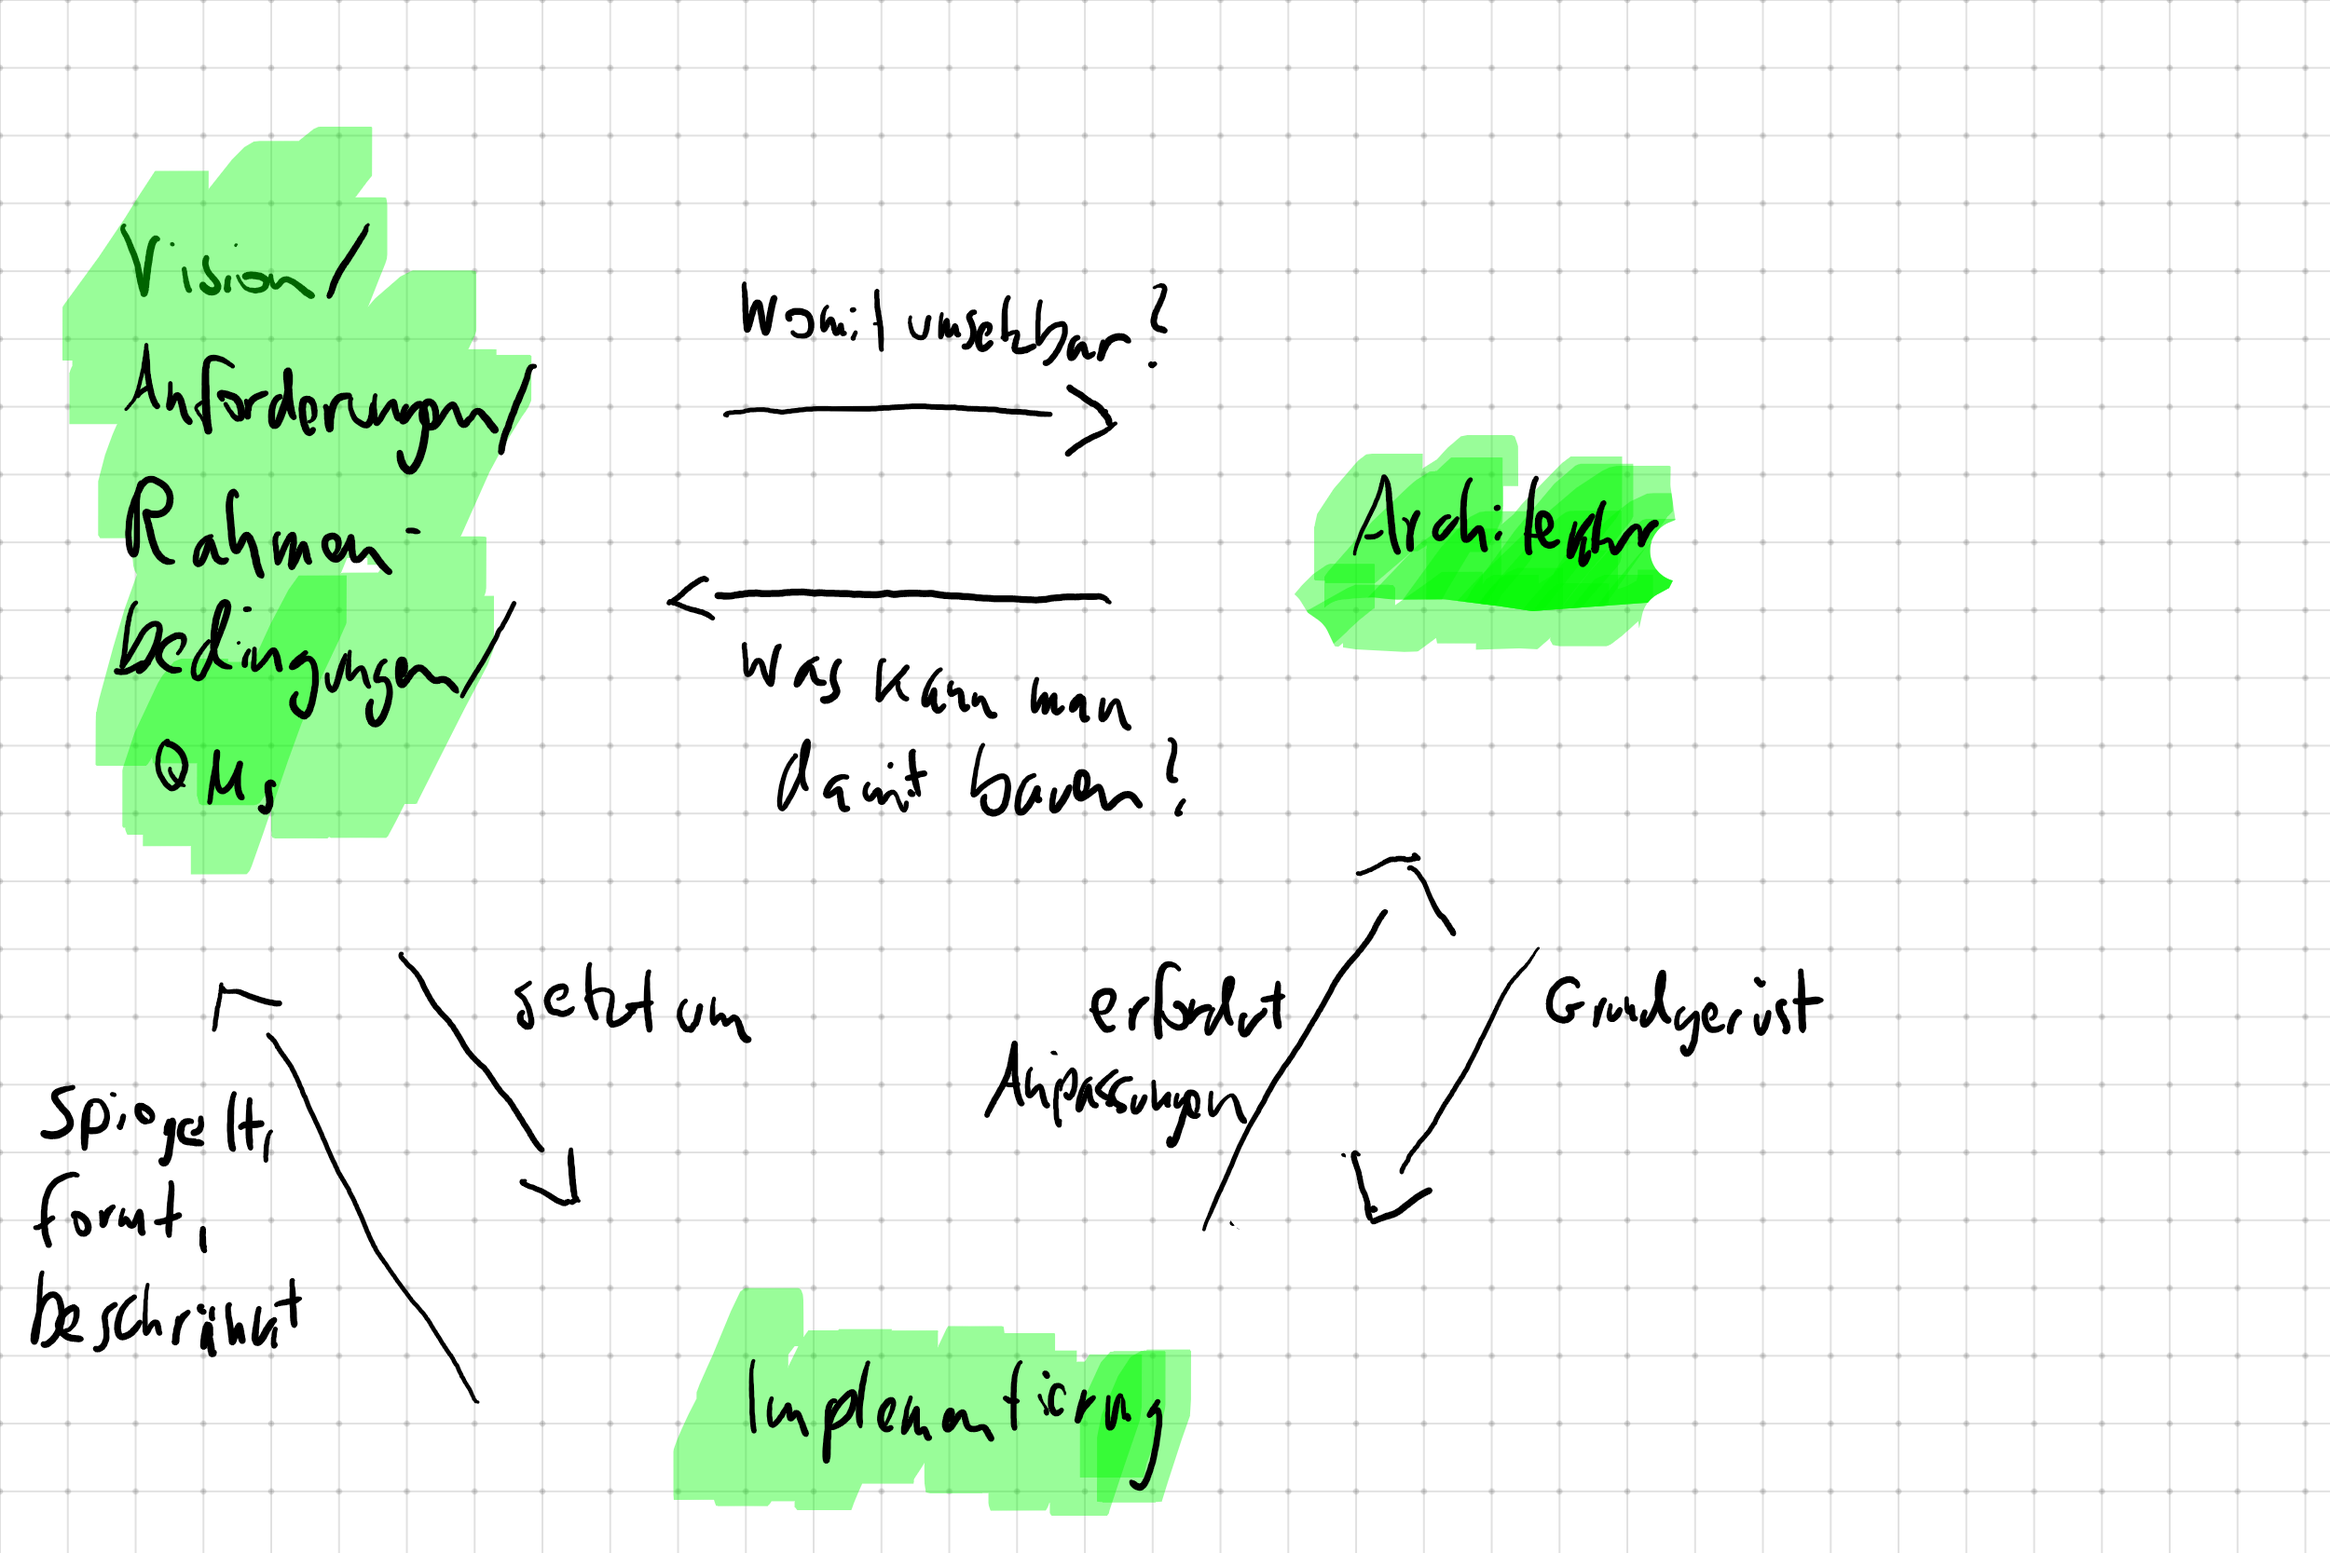
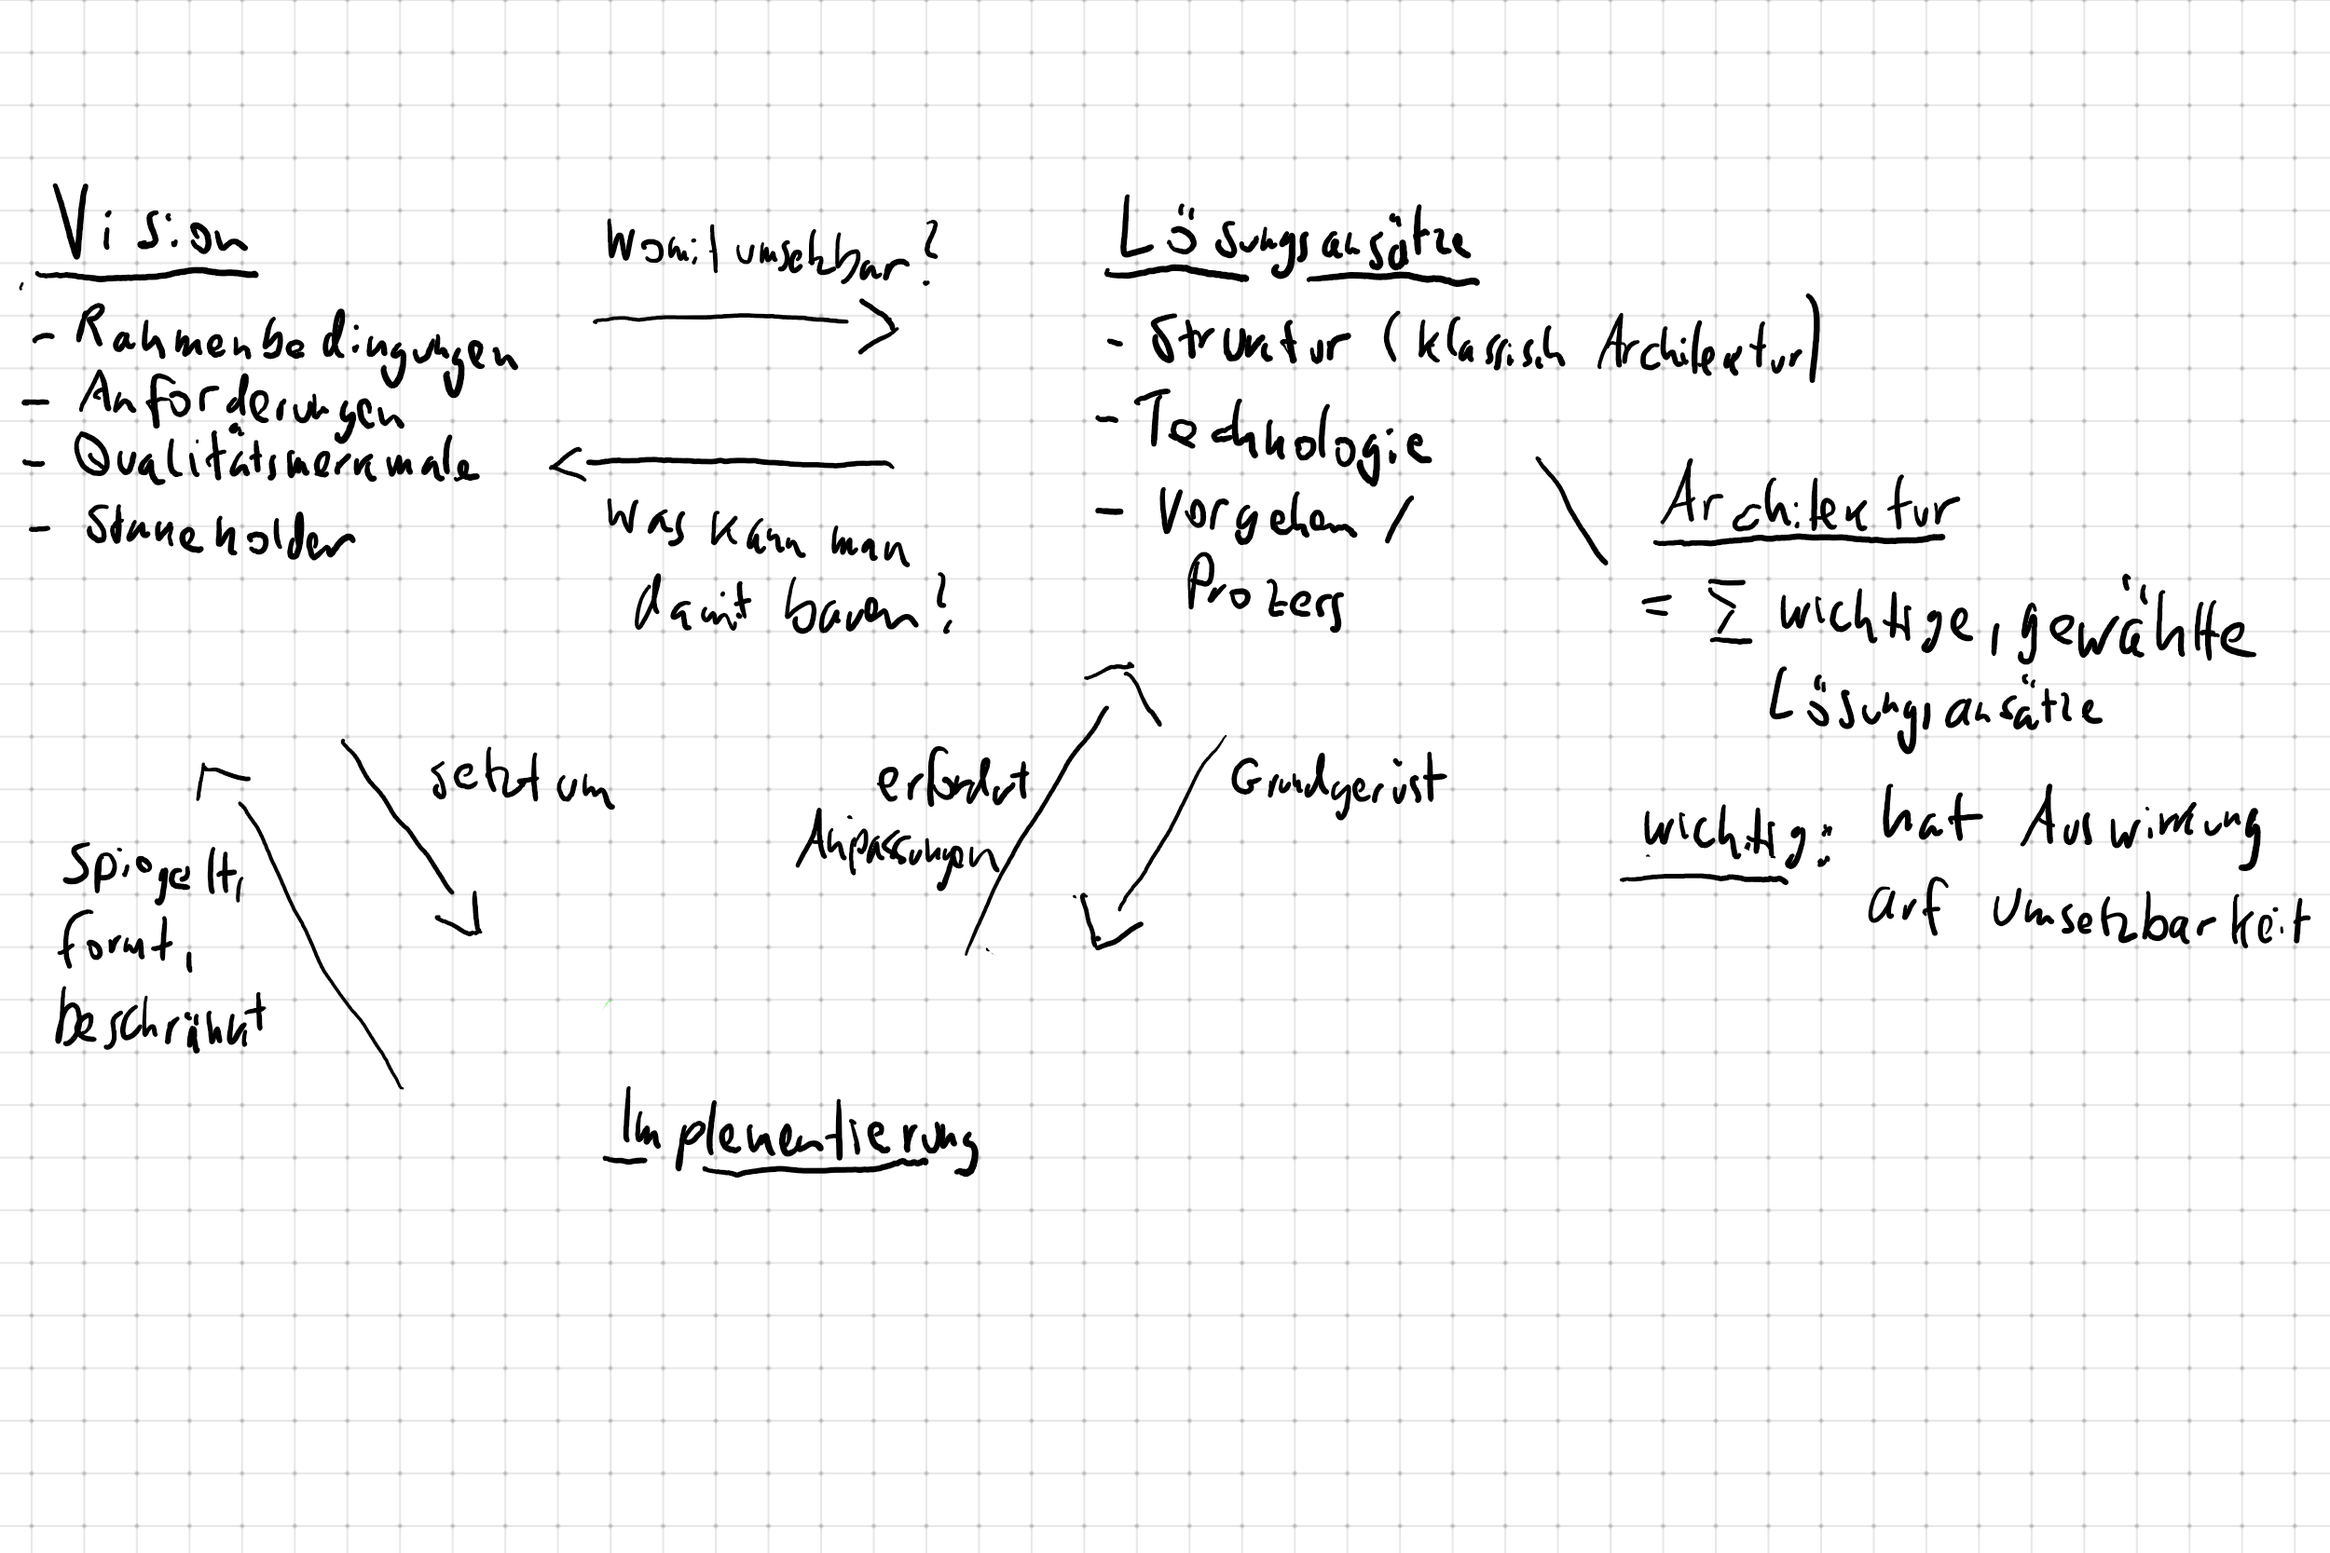
jax rc0

diff --git a/2020_jax_spa.html b/2020_jax_spa.html
@@ -521,13 +521,11 @@ Was bedeutet dabei wichtig?
             </textarea>
         </section>
 
-
-
         <section data-markdown class="todo">
           <textarea data-template>
-### Definition Architektur
+### Architektur
 
-<img src='img/skizze/architektur-definition.png'>
+<img src='img/skizze/architektur.png' height="800">
       </textarea>
     </section>
   
@@ -545,14 +543,6 @@ Was bedeutet dabei wichtig?
   </textarea>
         </section> -->
   
-        <section data-markdown class="todo">
-          <textarea data-template>
-### Architektur-Arbeit
-
-<img src='img/skizze/architektur.png' height="800">
-            </textarea>
-        </section>
-
         <!-- <section data-markdown>
           <textarea data-template>
 ### Konsequenzen
@@ -627,18 +617,19 @@ _SPAs sind nicht automatisch die bessere Architektur-Ansatz_
       <textarea data-template>
 ### Typische Anforderungen
 
-  <img src='img/spicker-anforderungen.png' height="750">
+  <img src='img/spicker-anforderungen.png' height="650">
   
           </textarea>
     </section>
-    <section data-markdown>
+    <!-- <section data-markdown>
       <textarea data-template>
 ### Mehr zu UX-Anforderungen 
         
 https://developers.google.com/web/tools/chrome-user-experience-report    
   </textarea>
-</section>
-<section data-markdown>
+</section> -->
+
+<!-- <section data-markdown>
       <textarea data-template>
 ### Eventual Consistency
 
@@ -654,7 +645,7 @@ By http://www.europecomics.com/serie/imbattable/
 </small>
           </textarea>
     </section>
-
+ -->
     <section data-markdown>
       <textarea data-template>
 ### Inkonsistenzen im UI
@@ -668,8 +659,8 @@ _Beispiel ungelesene Nachrichten: inkonsistent Client Server und übersicht und 
   </textarea>
 </section>
 
-    <section data-background="img/screenhot-xing-global-state_anzahl-nachrichten.png">
-    </section>
+    <!-- <section data-background="img/screenhot-xing-global-state_anzahl-nachrichten.png">
+    </section> -->
 
     <section data-markdown class="fragments">
       <textarea data-template>
@@ -729,9 +720,6 @@ _Zerlegen in Teile und Integration in eine konsistente Anwendung_
 </textarea>
     </section>
 
-
-
-
 <section data-markdown>
 <textarea data-template>
 
@@ -741,120 +729,54 @@ _Zerlegen in Teile und Integration in eine konsistente Anwendung_
 * Die Anwendungsteile sollen sich zu einer möglichst schlüssigen Anwendung zusammensetzen lassen.
 
 
-<p>
 <img src='img/spicker/Zerlegung_Zusammenspiel1.png' height="300" >
-</p>
 
+</textarea>
+</section>
 
-*Formel:* Zusammensetzen = Integration der Teile + Kommunikation zwischen Teilen
+<section data-markdown>
+  <textarea data-template>
+<img src='img/skizze/frontend-arch-outer.png' height="750">
+
+</textarea>
+</section>
+
+<section data-markdown>
+  <textarea data-template>
+<img src='img/skizze/frontend-arch-outer-ssi.png' height="750">
 
 </textarea>
 </section>
 
 
-    <section data-markdown>
-        <textarea data-template>
 
-<img src='img/spicker-integration.png' height="750px">
-
-              </textarea>
-      </section>
-
-      <section data-markdown>
-        <textarea data-template>
-## Integration über Links
-
-<img src='img/spicker/integration-links.png'>
-
-              </textarea>
-      </section>
-
-
-    <section>
-      <h3>Prominentes Beispiel für Klassische Links: Outlook Online</h3>
-      <a href="https://outlook.live.com/mail" target="_blank">
-        <img src="img/screenshot-outlook-mit-highlight.png" height="550">
-      </a>
-    </section>
-
-    <section>
-      <video controls src="video/outlook.mp4" type="video/mp4" height="600px"></video>
-      <p>
-        <small>UX-Schwächen, unterschiedliche Technologien, jede App wird anders dargestellt
-          <br> Wechsel der App dauert (Service Workers können die Zeit ab 2. Aufruf vermindern)
-          <br>Umstellung auf React fortlaufend
-        </small>
-      </p>
-    </section>
-
-    <section data-markdown>
-      <textarea data-template>
-## Modularer Monolith
-
-<img src='img/spicker/integration-monolith.png'>
-
-            </textarea>
-    </section>
-
-    <section>
-      <h3>Prominentes Beispiel für Majestic Modular Monoliths: Google Docs</h3>
-      <img src="img/screenshot-google-docs-comment.png" height="500px">
-      <p>
-        <small>Keine architekturbedingten UX Probleme</small>
-      </p>
-    </section>
-
-    <section data-markdown>
-      <textarea data-template>
-  ## Micro Components
-
-<img src='img/spicker/integration-micro-components.png'>
-
-            </textarea>
-    </section>
-
-    <section>
-      <h3>Prominentes Beispiel für Micro Components: Spotify mobile App</h3>
-      <img src="img/screenshot-spotify.png" height="450px">
-      <p>
-          <small>
-              Dies gilt nur für die App, der Web Player ist seit einiger Zeit als React-Monolith gebaut: 
-              <a href="http://labs.spotify.com/2019/03/25/building-spotifys-new-web-player/" target="_blank">
-                http://labs.spotify.com/2019/03/25/building-spotifys-new-web-player/</a>
-
-          
-          <!-- <a href="https://www.quora.com/What-is-the-technology-stack-behind-the-Spotify-web-client/answer/Andreas-Blixt" target="_blank">https://www.quora.com/What-is-the-technology-stack-behind-the-Spotify-web-client/answer/Andreas-Blixt</a>
-          <br>
-          <a href="https://www.quora.com/How-are-Spotify-Web-Player-components-developed" target="_blank">https://www.quora.com/How-are-Spotify-Web-Player-components-developed</a>
-          <br>
-          <a href="https://www.reddit.com/r/reactjs/comments/5sgkro/til_spotify_is_using_reactredux_in_their_web_app/" target="_blank">https://www.reddit.com/r/reactjs/comments/5sgkro/til_spotify_is_using_reactredux_in_their_web_app/</a> -->
-        </small>
-      </p>
-
-    </section>
-
-    <section>
-      <video controls src="video/micro_frontend_spotify.mp4" type="video/mp4" height="600px"></video>
-      <p>
-        <small>überraschende UX Schwächen, Apps nur gleichzeitig dargestellt, aber nicht komplett integriert</small>
-      </p>
-    </section>
-
-
-<!-- <section data-markdown>
+<section data-markdown>
   <textarea data-template>
-  ### Unsere Empfehlung
+<img src='img/skizze/frontend-arch-outer-vertical.png' height="750">
 
-  * So lange die Anwendung überschaubar bleibt und in einem Team entwickelt werden kann **"Modularer Monolith"**.
-  * Dann Kombination mit **"Micro Components"** wenn viele Teile gleichzeitig dargestellt werden sollen ...
-  * ... oder andernfalls **"Klassische Links"**.
+</textarea>
+</section>
 
-  <p>
-  <img src='img/icons/quality.png' height="256">
-  </p>
 
-        </textarea>
-</section> -->
+<section data-markdown>
+  <textarea data-template>
+<img src='img/skizze/frontend-arch-outer-csi.png' height="750">
+
+</textarea>
+</section>
+<section data-markdown>
+  <textarea data-template>
+<img src='img/skizze/frontend-arch-outer-spa.png' height="750">
+
+</textarea>
+</section>
+
+<section data-markdown>
+  <textarea data-template>
+<img src='img/skizze/frontend-arch-outer.png' height="750">
+
+</textarea>
+</section>
 
 <section data-markdown>
   <textarea data-template>
@@ -927,14 +849,6 @@ _Man kann als Anwendungsteile zwei Arten von Komponenten unterscheiden_
   </section>
 
   <section data-markdown>
-    <textarea data-template>
-
-<img src='img/bahn-smart-dumb.png' height="750">
-
-          </textarea>
-  </section>
-
-  <section data-markdown>
       <textarea data-template>
 
       ### Klarer Daten- und Kontrollfluss zwischen den Komponenten
@@ -943,23 +857,6 @@ _Man kann als Anwendungsteile zwei Arten von Komponenten unterscheiden_
 
             </textarea>
     </section>
-
-    <section data-markdown>
-      <textarea data-template>
-
-<img src='img/bahn-smart-dumb-calender.png' height="750">
-
-            </textarea>
-    </section>
-
-  <!-- <section data-markdown>
-    <textarea data-template>
-
-<img src='img/bahn-komponenten.png' height="750">
-
-          </textarea>
-  </section> -->
-
 
   <section data-markdown>
     <textarea data-template>
@@ -1366,9 +1263,7 @@ _Verlässt man sich auf lokalen Zustand in Komponenten?_
 Wissen auf den Punkt.
 Stark verdichtet liefern diese Referenzkarten kompaktes Wissen, Check-Listen und Rezepte für Ihre Projekte!
 
-<p>
-<img src='img/spicker/Spicker_9_Vorschaubild3er.jpg' height="350">
-</p>
+<img src='img/spicker/Spicker_9_Vorschaubild3er.jpg' height="200">
 
 #### Architektur-Spicker Ausgabe Nr. 9: Moderne Frontend-Architektur
 
@@ -1453,7 +1348,7 @@ Stark verdichtet liefern diese Referenzkarten kompaktes Wissen, Check-Listen und
         progress: true,
         history: true,
         center: true,
-        width: 1100,
+        width: 1200,
         height: 800,
 
         transition: "slide", // none/fade/slide/convex/concave/zoom
